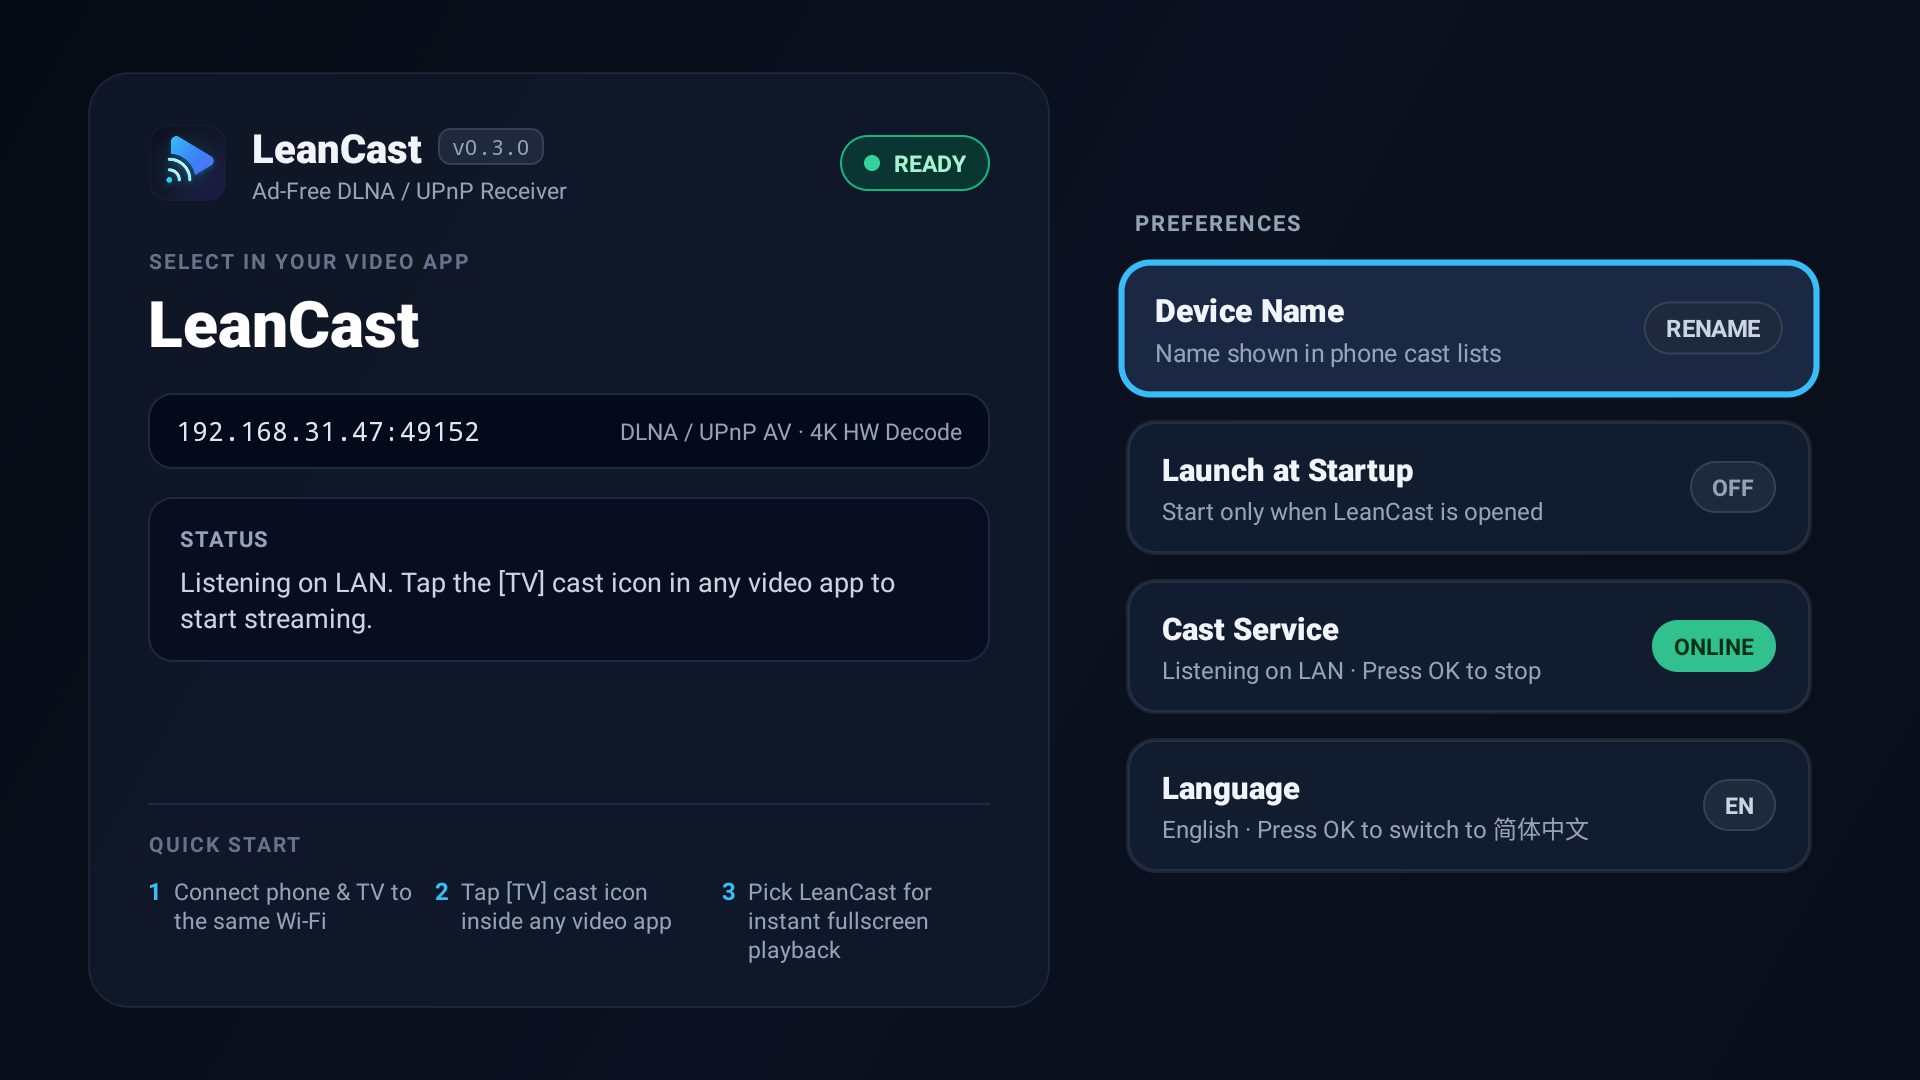
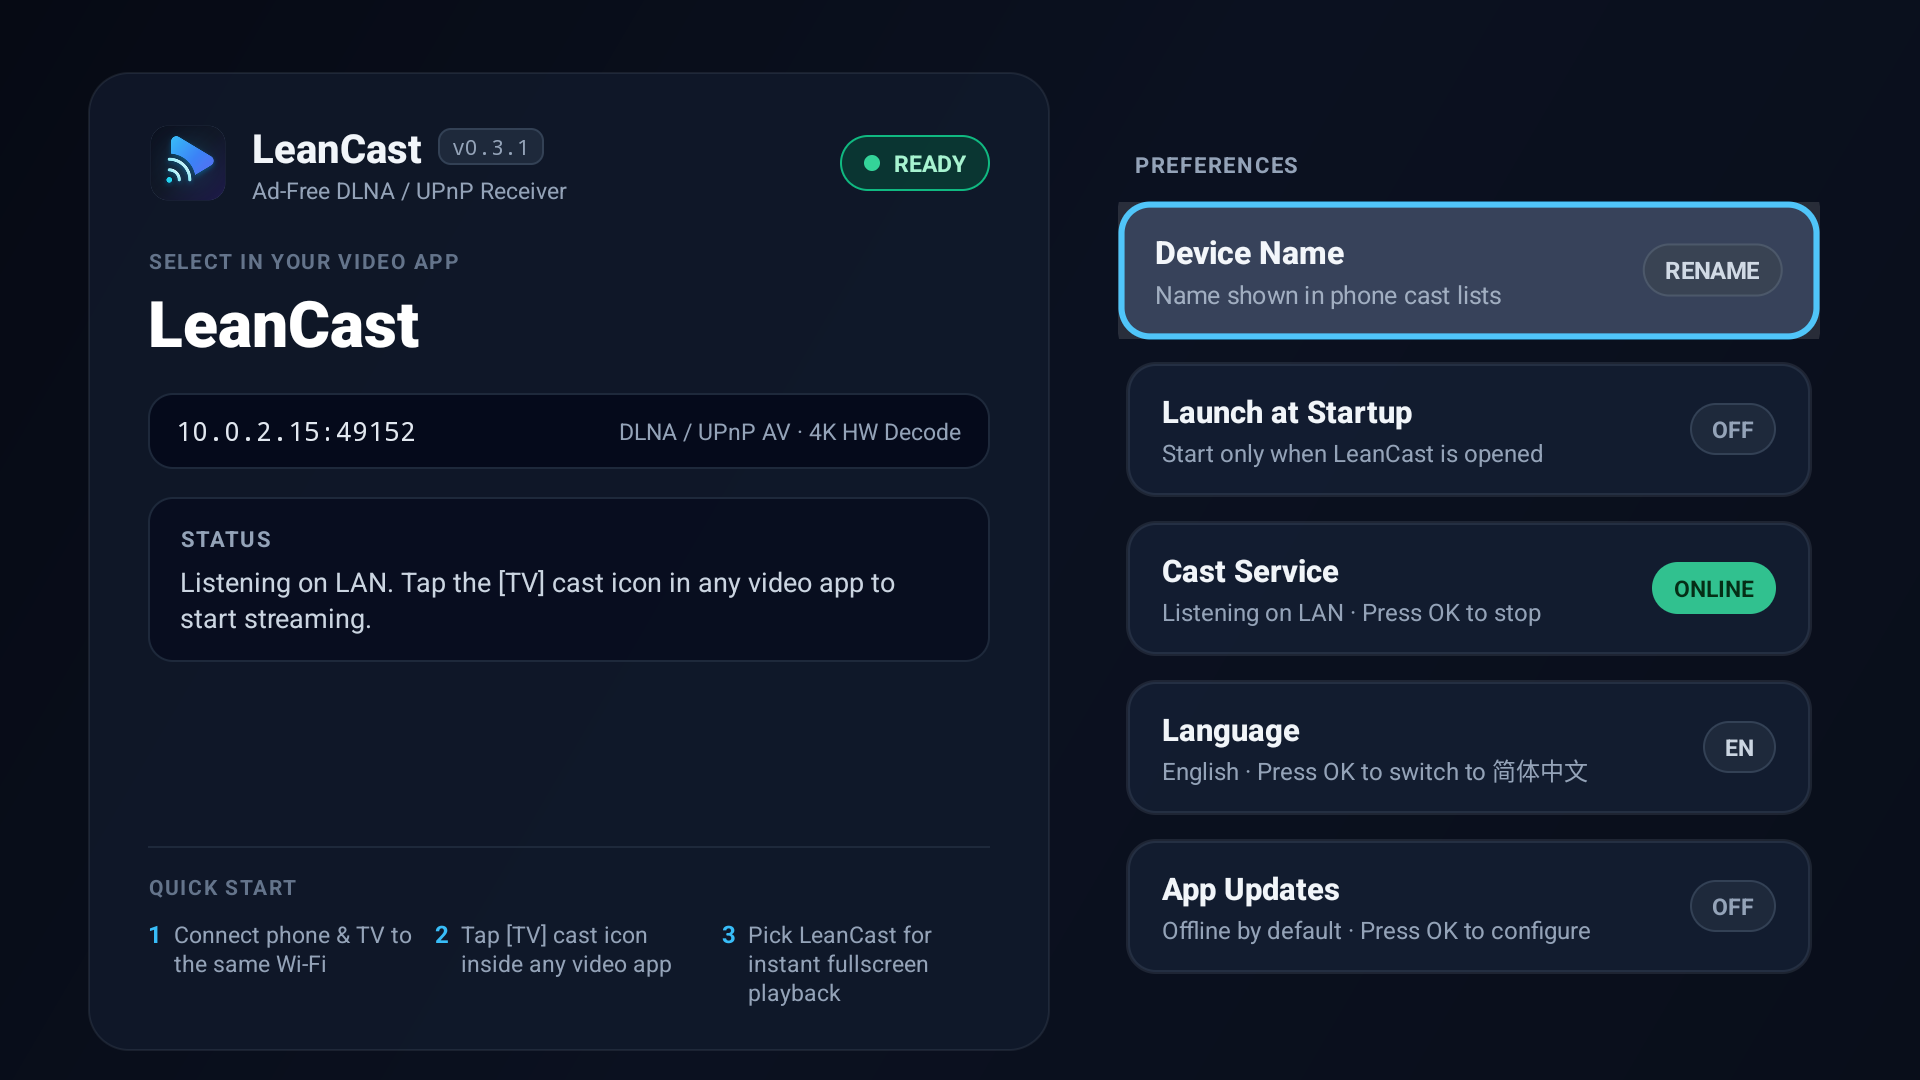
docs(screenshots): refresh v0.3.1 dashboard captures and archive app-update spec

diff --git a/openspec/specs/app-update/spec.md b/openspec/specs/app-update/spec.md
@@ -1,0 +1,79 @@
+# app-update Specification
+
+## Purpose
+TBD - created by archiving change add-opt-in-app-update. Update Purpose after archive.
+## Requirements
+### Requirement: Opt-in update toggle (default disabled)
+The app SHALL provide a persisted boolean setting (`update_check_enabled`) that defaults to `false`. While disabled, the app MUST NOT initiate any outbound network request for update checking or APK downloading, whether automatically or via manual action.
+
+#### Scenario: Fresh install makes zero update requests
+- **WHEN** the app is installed and launched for the first time with default settings
+- **THEN** `update_check_enabled` is `false` and no HTTP request is sent to any update manifest or release host
+
+#### Scenario: Disabling toggle stops future checks
+- **WHEN** the user toggles update checks from ON to OFF
+- **THEN** subsequent launches and resumes of `MainActivity` perform no update requests and any cached update badge is cleared
+
+### Requirement: Foreground-only throttled auto-check
+When `update_check_enabled` is `true`, the app SHALL check for updates only when `MainActivity` is in the foreground, throttled to at most once every 6 hours for automatic checks. `ReceiverService` MUST NOT perform update checks or background polling.
+
+#### Scenario: Auto-check skipped within throttle window
+- **WHEN** `update_check_enabled` is `true` and a successful or attempted auto-check occurred less than 6 hours ago
+- **THEN** reopening `MainActivity` does not issue another automatic network request
+
+#### Scenario: Manual check bypasses throttle when enabled
+- **WHEN** `update_check_enabled` is `true` and the user activates "Check Now" in the update modal
+- **THEN** the app immediately fetches the latest release manifest regardless of the 6-hour auto-check interval
+
+### Requirement: Static release manifest and SemVer comparison
+The release CI workflow SHALL generate and attach a `latest.json` asset alongside `LeanCast-<version>.apk` on every GitHub Release containing `version`, `changelog`, and `assets["android-universal"]` (`file` and `sha256`). The app SHALL compare versions using semantic versioning (`major.minor.patch`) and report an update only when `remote > current`.
+
+#### Scenario: Newer stable version detected
+- **WHEN** installed version is `0.3.0` and `latest.json` reports `0.3.1` with a valid `assets["android-universal"]` entry
+- **THEN** the updater reports an available update with version `0.3.1` and its changelog
+
+#### Scenario: Same or older version reports up to date
+- **WHEN** installed version is `0.3.1` and `latest.json` reports `0.3.1` or `0.3.0`
+- **THEN** the updater reports the app is up to date and offers no install action
+
+#### Scenario: Invalid manifest payload rejected
+- **WHEN** an endpoint returns HTTP 200 with an HTML error page, malformed JSON, missing `assets["android-universal"]`, path-traversal APK name (e.g. `../evil.apk`), or non-64-hex `sha256`
+- **THEN** the response is rejected as invalid and the updater tries the next candidate URL
+
+### Requirement: First-party primary source with GitHub fallback
+For both `latest.json` and APK downloads, the updater SHALL construct an ordered list of candidate URLs: first the first-party distribution endpoint (`https://dl.solocraft.app/leancast/latest.json` and `https://dl.solocraft.app/leancast/v<version>/<file>`), followed by the direct GitHub Releases URL (`https://github.com/addozhang/leancast/releases/latest/download/latest.json` and `https://github.com/addozhang/leancast/releases/download/v<version>/<file>`), trying each in order until one returns HTTP `200..299` with a valid payload.
+
+#### Scenario: First-party endpoint fails and GitHub fallback succeeds
+- **WHEN** `dl.solocraft.app` times out or returns HTTP 502 and the direct GitHub Releases URL returns HTTP 200 with a valid `latest.json`
+- **THEN** the check succeeds using the GitHub fallback without surfacing an error
+
+#### Scenario: All sources unreachable
+- **WHEN** both `dl.solocraft.app` and the direct GitHub URL fail
+- **THEN** the updater surfaces a localized network error in the update modal without crashing or affecting cast playback
+
+### Requirement: Verified APK download and Android TV installer handoff
+When the user confirms an upgrade, the app SHALL download the APK to `cacheDir/updates/`, report monotonically non-decreasing progress (`0..100`), verify the file's SHA-256 digest against `latest.json`, and launch the Android system package installer via `FileProvider` (`content://` URI).
+
+#### Scenario: SHA-256 mismatch aborts install
+- **WHEN** the downloaded APK's computed SHA-256 does not match `manifest.sha256`
+- **THEN** the app deletes the temporary file, does NOT invoke the package installer, and displays an integrity verification error
+
+#### Scenario: API 26+ unknown-sources permission required
+- **WHEN** the user initiates install on Android 8.0+ without `canRequestPackageInstalls()` granted
+- **THEN** the app opens `ACTION_MANAGE_UNKNOWN_APP_SOURCES` for its package and displays guidance to allow installation and retry
+
+#### Scenario: Verified APK launches system installer
+- **WHEN** the downloaded APK passes SHA-256 verification and install permission is granted
+- **THEN** the app starts `Intent.ACTION_VIEW` with the `FileProvider` `content://` URI, MIME type `application/vnd.android.package-archive`, and `FLAG_GRANT_READ_URI_PERMISSION`
+
+#### Scenario: Restricted TV firmware lacks package installer
+- **WHEN** starting the package installer throws `ActivityNotFoundException` or `SecurityException`
+- **THEN** the app catches the exception and shows a fallback message with the manual download URL
+
+### Requirement: 10-foot TV update modal and bilingual copy
+Activating the Updates action card SHALL open a dark TV modal navigable solely by D-pad containing: the opt-in toggle, current vs. latest version status, release notes when available, progress bar during download/verification, and primary/close action buttons. All strings SHALL be provided in pure Simplified Chinese (`values-zh/strings.xml`) and pure English (`values/strings.xml`).
+
+#### Scenario: D-pad navigation in update modal
+- **WHEN** the user opens the update modal with a TV remote
+- **THEN** focus lands on the primary interactive control and every toggle and button is reachable and visually highlighted with D-pad navigation
+

diff --git a/openspec/specs/receiver-app/spec.md b/openspec/specs/receiver-app/spec.md
@@ -36,11 +36,11 @@ The launcher activity SHALL display the receiver state: service running, current
 - **THEN** the UI shows the running indicator, friendly name, and an idle transport state
 
 ### Requirement: Lean permission and network posture
-The app SHALL request only `INTERNET`, `ACCESS_NETWORK_STATE`, `ACCESS_WIFI_STATE`, `CHANGE_WIFI_MULTICAST_STATE`, `FOREGROUND_SERVICE`, `RECEIVE_BOOT_COMPLETED`, and `POST_NOTIFICATIONS` (API 33+) permissions. It MUST make no network requests beyond the LAN cast protocols; no analytics, ads, or update checks are permitted.
+The app SHALL request only `INTERNET`, `ACCESS_NETWORK_STATE`, `ACCESS_WIFI_STATE`, `CHANGE_WIFI_MULTICAST_STATE`, `FOREGROUND_SERVICE`, `RECEIVE_BOOT_COMPLETED`, `POST_NOTIFICATIONS` (API 33+), `SYSTEM_ALERT_WINDOW`, `USE_FULL_SCREEN_INTENT`, and `REQUEST_INSTALL_PACKAGES` (API 26+ for opt-in self-upgrade) permissions. By default (`update_check_enabled = false`), the app MUST make no network requests beyond LAN cast protocols and user-cast media streams; no analytics or ads are permitted, and update checks/downloads SHALL occur only after the user explicitly enables the opt-in update toggle.
 
-#### Scenario: No external calls
-- **WHEN** the app manifest and merged configuration are inspected
-- **THEN** no analytics/ad SDK or non-LAN endpoint is present
+#### Scenario: Default posture makes no external app calls
+- **WHEN** the app runs with default settings (`update_check_enabled = false`) and the manifest/configuration is inspected
+- **THEN** no analytics/ad SDK is present and no outbound update check request is initiated
 
 ### Requirement: Pure-Kotlin APK
 The app SHALL build as a pure Kotlin/Java APK with no bundled native libraries, so a single artifact runs on `armeabi-v7a`, `arm64-v8a`, `x86`, and `x86_64` devices.
@@ -57,11 +57,15 @@ The app SHALL ship a launcher icon: an adaptive icon (API 26+) plus raster fallb
 - **THEN** a valid icon resource resolves in both cases (legacy raster below 26, adaptive icon at 26+)
 
 ### Requirement: 10-foot two-column TV dashboard UI
-The launcher activity SHALL present a 10-foot Android TV layout with overscan-safe margins: a left hero status card (brand header, live status badge, device friendly name in large typography, LAN endpoint + protocol pills, active media title when casting, and 3-step casting instructions) and a right action column of focusable TV cards (rename device, boot autostart toggle, restart/stop service). Focusing any action card with the D-pad SHALL highlight its border and apply a subtle scale-up animation.
+The launcher activity SHALL present a 10-foot Android TV layout with overscan-safe margins: a left hero status card (brand header with version badge and optional new-version indicator, live status badge, device friendly name in large typography, LAN endpoint + protocol summary, active media title when casting, and 3-step casting instructions) and a right action column of focusable TV cards (rename device, boot autostart toggle, restart/stop service, language switch, and opt-in app updates). Focusing any action card with the D-pad SHALL highlight its border and apply a subtle scale-up animation.
 
 #### Scenario: D-pad focus highlights action card
 - **WHEN** the user navigates to an action card on the right column using the TV remote D-pad
 - **THEN** the focused card renders a high-contrast accent border and scales up relative to unfocused cards
+
+#### Scenario: Updates card reflects opt-in and available-update states
+- **WHEN** `update_check_enabled` is `false`
+- **THEN** the Updates card displays an "Off" pill; when enabled and a newer version is discovered, both the Updates card pill and the left hero version area indicate the available version
 
 ### Requirement: Switchable UI language (Chinese / English)
 The app SHALL support switching the UI language between Simplified Chinese (`zh`) and English (`en`) via a focusable action card on the dashboard. Each language SHALL display pure, single-language strings (without mixed bilingual concatenation), persisted across restarts.

diff --git a/openspec/changes/archive/2026-11-28-add-opt-in-app-update/tasks.md b/openspec/changes/archive/2026-11-28-add-opt-in-app-update/tasks.md
@@ -33,4 +33,4 @@
 
 - [x] 5.1 Update `README.md` and `README.zh-CN.md` to document the opt-in update switch (default OFF, zero background polling)
 - [x] 5.2 Run `./gradlew :domain:test :app:testDebugUnitTest assembleDebug` and verify APK remains pure Kotlin (no `lib/` native directories)
-- [ ] 5.3 Verify on TV device: default OFF makes no requests, enabling checks & downloads from a test release/local manifest, D-pad focus and bilingual strings render cleanly
+- [x] 5.3 Verify on TV device: default OFF makes no requests, enabling checks & downloads from a test release/local manifest, D-pad focus and bilingual strings render cleanly (verified end-to-end on API 34 1080p emulator against live `dl.solocraft.app` `v0.3.1`)

diff --git a/README.md b/README.md
@@ -5,7 +5,7 @@ English | [简体中文](README.zh-CN.md)
 **[Download APK](https://github.com/addozhang/leancast/releases/latest) · [Website](https://solocraft.app/leancast) · [Supported devices](#supported-devices) · [Report device compatibility](https://github.com/addozhang/leancast/issues/new?template=device-compatibility.yml)**
 
 <p align="center">
-  <img src="docs/screenshots/main-en.png?v=3" width="49%" alt="LeanCast TV dashboard" />
+  <img src="docs/screenshots/main-en.png?v=4" width="49%" alt="LeanCast TV dashboard" />
   <img src="docs/screenshots/player-osd-en.png?v=3" width="49%" alt="LeanCast playback OSD" />
 </p>
 

diff --git a/README.zh-CN.md b/README.zh-CN.md
@@ -5,7 +5,7 @@
 **[下载 APK](https://github.com/addozhang/leancast/releases/latest) · [官网](https://solocraft.app/leancast) · [支持的设备](#支持的设备) · [报告设备兼容性](https://github.com/addozhang/leancast/issues/new?template=device-compatibility.yml)**
 
 <p align="center">
-  <img src="docs/screenshots/main-zh.png?v=3" width="49%" alt="LeanCast 电视主界面" />
+  <img src="docs/screenshots/main-zh.png?v=4" width="49%" alt="LeanCast 电视主界面" />
   <img src="docs/screenshots/player-osd-zh.png?v=3" width="49%" alt="LeanCast 播放 OSD" />
 </p>
 
